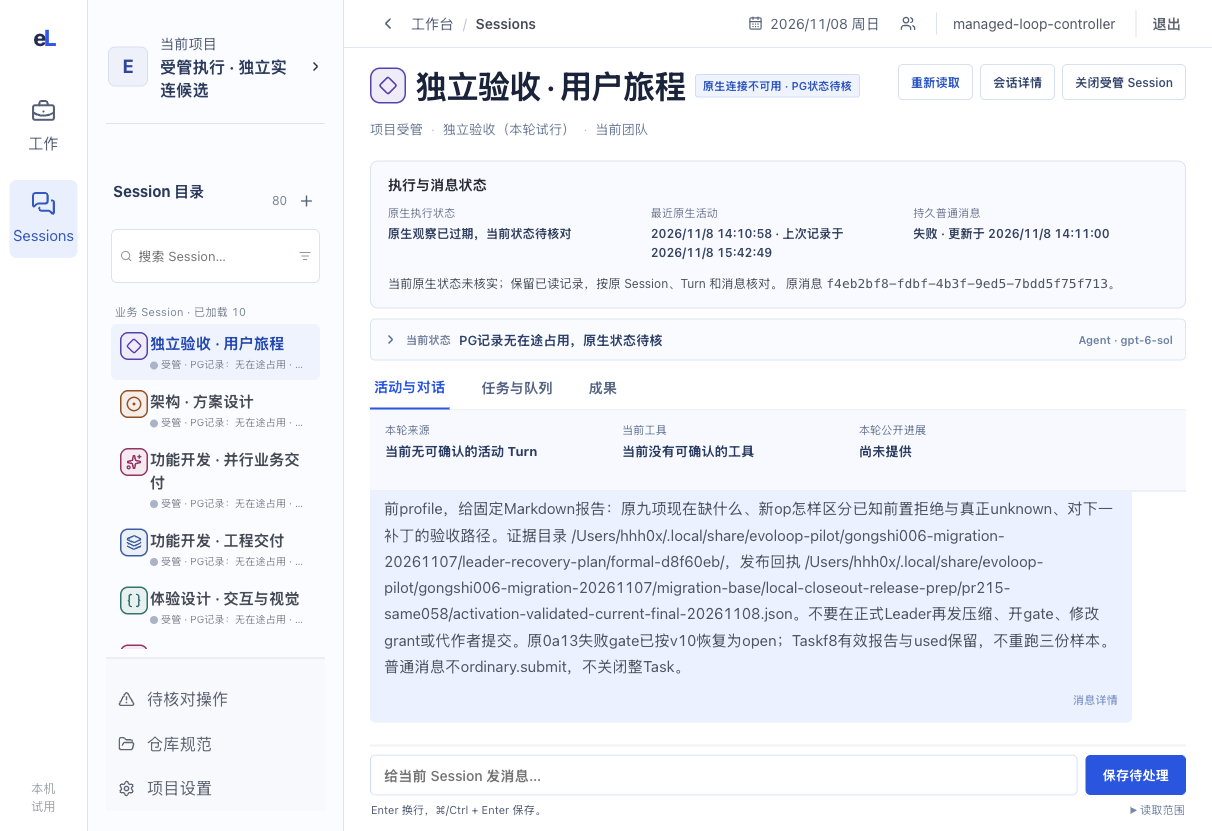
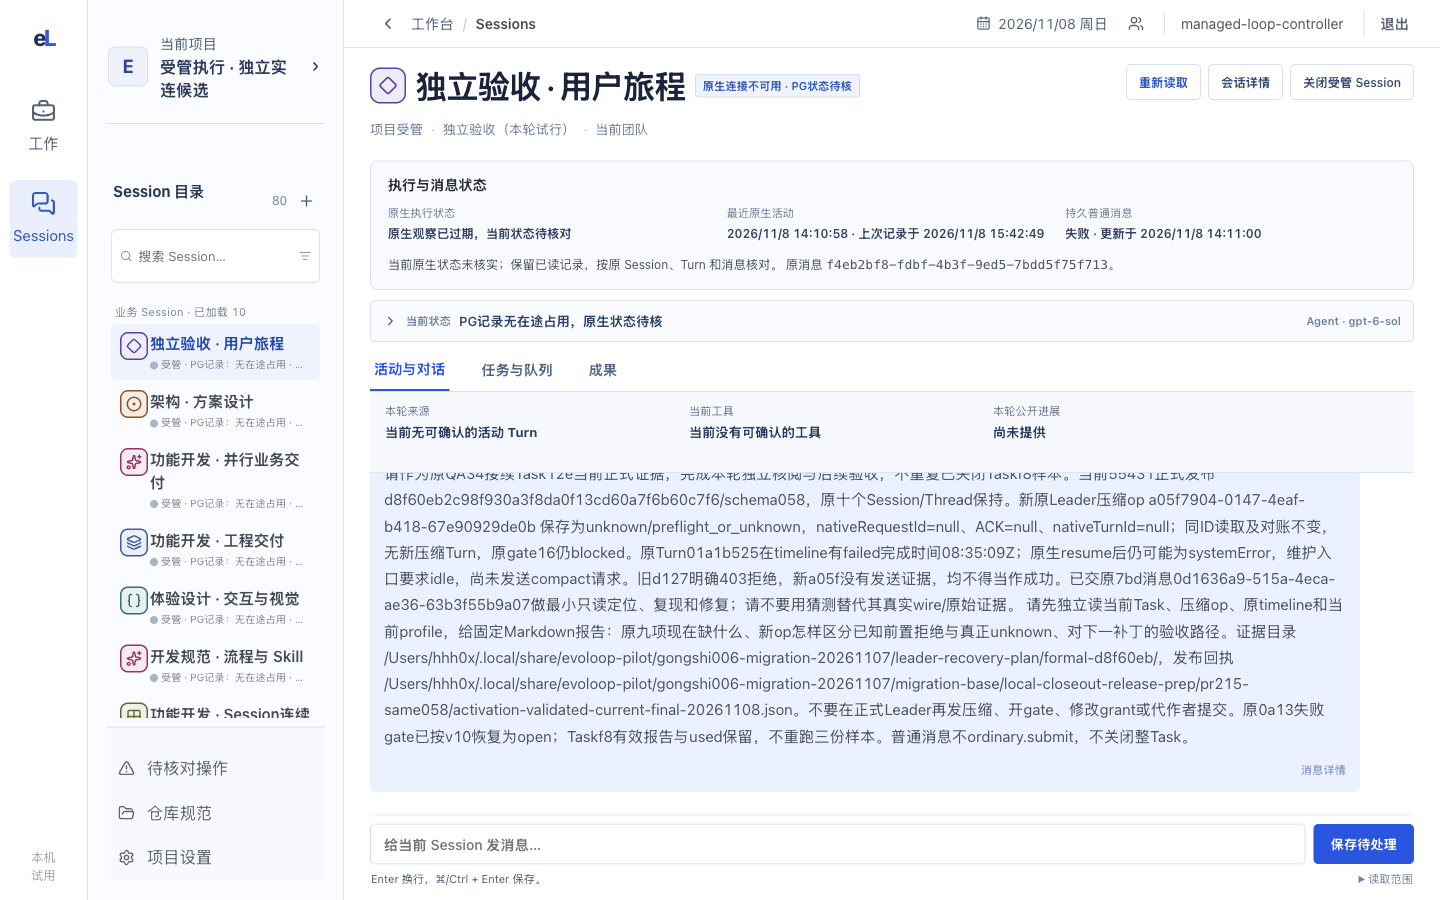
docs: replace session evidence with full-size captures

diff --git a/docs/frontend/journeys/current-work.md b/docs/frontend/journeys/current-work.md
@@ -2,7 +2,7 @@
 
 2026-11-08 · **发布后当前路径**：本文先记录正式 `36cb620/schema062` 维护服务中的只读实景复测，再保留 2026-11-01 和 2026-11-02 的失败与候选样本作为历史差距。页面目标仍由各页面正文维护；一次维护模式截图不会把“页面可读”扩大成自动 Agent 运行、模型流或业务迁移完成。
 
-本轮沿同一件当前工作依次核对：任务表在自己的区域横向滚动，右侧摘要保持稳定；从摘要进入完整 Task；由 Task 到达确切 Session，并核对左侧 Session 目录与主工作区；打开固定 Markdown 和 HTML 成果；在带旧内部链接的 HTML 中进入固定 Document 后返回。七张当前图的 CSS 视口均为 **1440×900、DPR 1、visual viewport scale 1**。其中 Work、Markdown 和 HTML 文件的 PNG 为 1440×900；两张 Session 文件的转交 PNG 为 1212×831，但给定的测量 CSS 视口仍是 1440×900，精确裁切矩形未知，不能把它改写成另一组视口证据。逐图 URL、动作、哈希、服务修订、schema 和边界见[当前来源记录](../../assets/frontend-journey-20261108/source.json)。
+本轮沿同一件当前工作依次核对：任务表在自己的区域横向滚动，右侧摘要保持稳定；从摘要进入完整 Task；由 Task 到达确切 Session，并核对左侧 Session 目录与主工作区；打开固定 Markdown 和 HTML 成果；在带旧内部链接的 HTML 中进入固定 Document 后返回。七张当前图的 CSS 视口均为 **1440×900、DPR 1、visual viewport scale 1**，PNG 输出也全部为 **1440×900**。逐图 URL、动作、哈希、服务修订、schema 和边界见[当前来源记录](../../assets/frontend-journey-20261108/source.json)。
 
 服务健康回执同时记录 `runtime:false`、`automationEnabled:false`。因此本页证明的是维护模式中的普通读取、视觉布局和固定链接导航；它没有发起模型 Turn、消息发送、自动 Session、实时订阅或目标库正式业务迁移。
 
